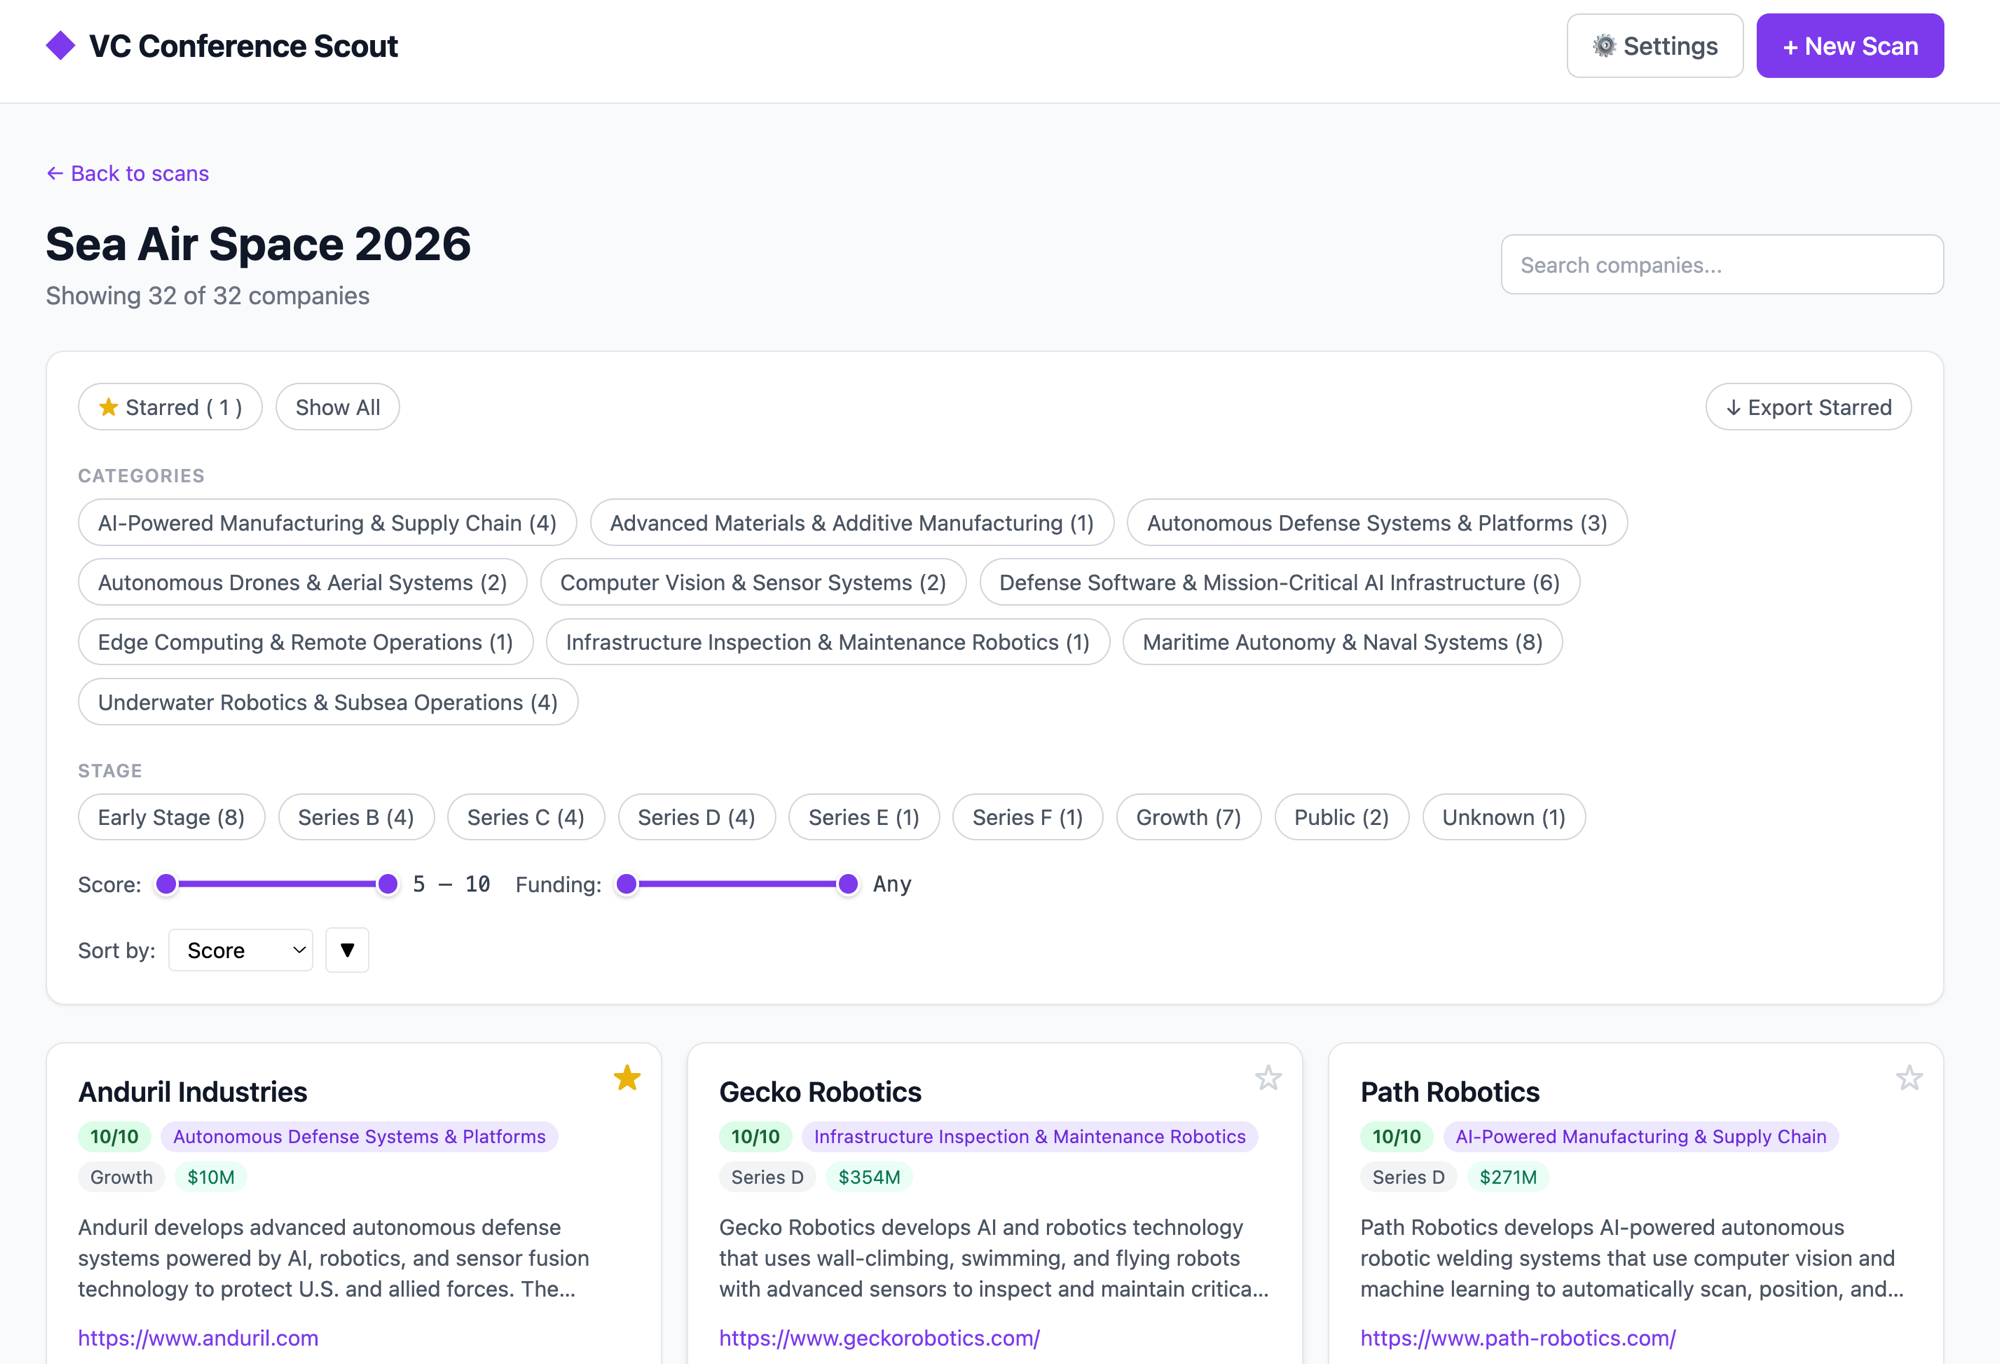
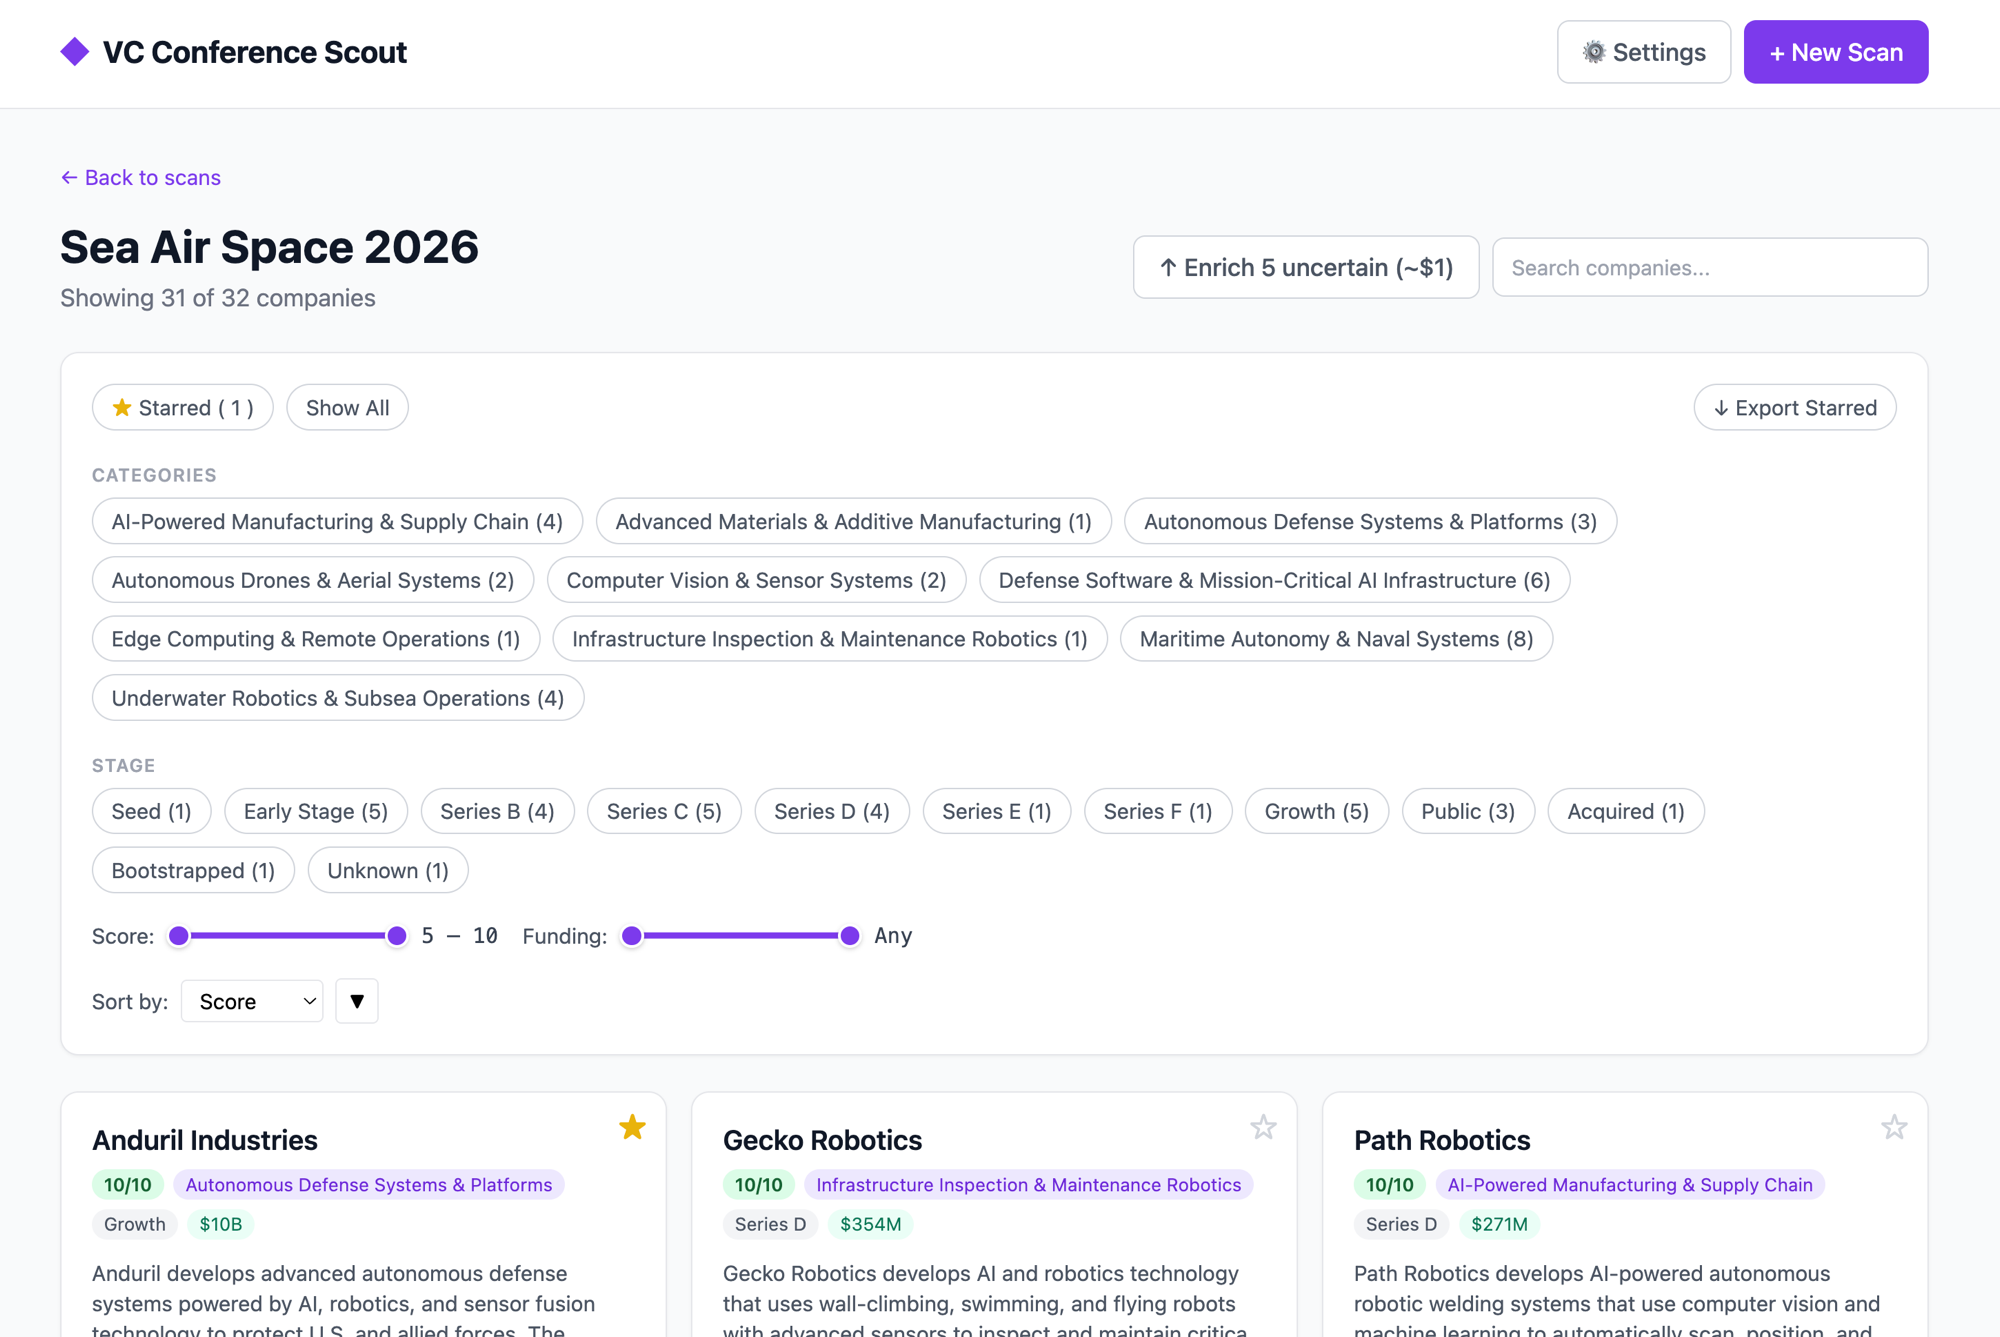
Fix funding parser ($10+ billion → $10B) and refresh README screenshot
The funding regex required the unit (billion/M/K/...) to follow the
number with only whitespace in between, so "$10+ billion" was being
parsed as $10 raw dollars and rendered as $10M instead of $10B.
Now allows an optional "+" between the number and the unit, and
recognizes "bn" / "mm" as additional unit aliases.

Also refreshes docs/screenshot.png to show the post-rebuild UI
(Enrich uncertain button, score-after-enrich pipeline, $10B funding
on Anduril, etc.).

diff --git a/index.html b/index.html
@@ -778,17 +778,20 @@ const FUNDING_LABELS = ['Any','$100K','$500K','$1M','$5M','$10M','$25M','$50M','
 function parseFunding(s) {
   if (!s) return null;
   s = s.replace(/,/g, '');
-  const m = s.match(/\$([\d.]+)\s*(billion|B|million|M|K|thousand)?/i);
+  // Allow optional "+" and whitespace between the number and the unit, e.g. "$10+ billion"
+  const m = s.match(/\$([\d.]+)\s*\+?\s*(billion|bn|B|million|mm|M|K|thousand)?/i);
   if (!m) return null;
   let val = parseFloat(m[1]);
   let unit = (m[2] || '').toUpperCase();
   if (!unit) {
-    const range = s.match(/\$([\d.]+)\s*[-–]\s*\$?([\d.]+)\s*(billion|B|million|M|K|thousand)/i);
+    // Range like "$2.5 - $2.79B"
+    const range = s.match(/\$([\d.]+)\s*[-–]\s*\$?([\d.]+)\s*(billion|bn|B|million|mm|M|K|thousand)/i);
     if (range) unit = range[3].toUpperCase();
   }
-  if (unit === 'BILLION' || unit === 'B') return val * 1000;
-  if (unit === 'MILLION' || unit === 'M') return val;
+  if (unit === 'BILLION' || unit === 'BN' || unit === 'B') return val * 1000;
+  if (unit === 'MILLION' || unit === 'MM' || unit === 'M') return val;
   if (unit === 'K' || unit === 'THOUSAND') return val / 1000;
+  // No unit — assume raw dollars
   if (val >= 1000000) return val / 1000000;
   if (val >= 1000) return val / 1000000;
   return val;
